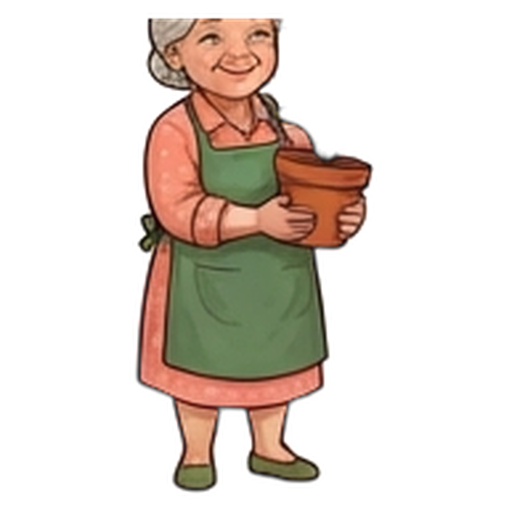
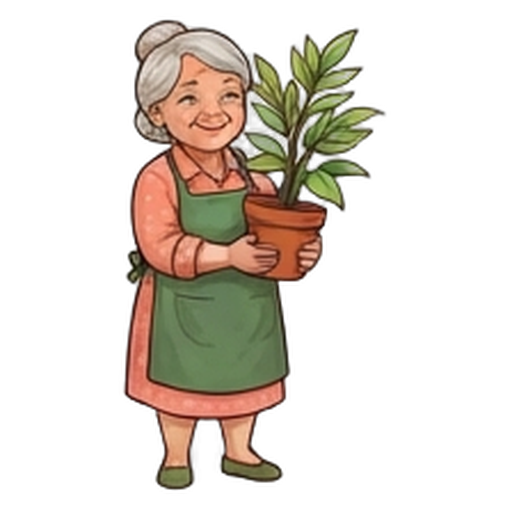
Personagens recortados pela silhueta, sem cortar cabeças e chapéus
As figuras da grade passavam do limite das células, e vários personagens
saíam com o topo cortado (Gaudêncio, Geralda, Zulma, Rosinha, Jacinto).
fatiar_por_silhueta.py tira o fundo da grade inteira e entrega a cada
personagem a figura completa, inclusive o carrinho do Cícero, a canoa do
Chico e a fumaça da tigela da Keiko.

Claude-Session: https://claude.ai/code/session_016wJzKn9f3nBJFY6j7rFUfs

Changed region(s): [[0.2188, 0.0312, 0.75, 0.9688]]

diff --git a/docs/arte/itens/fatiar_por_silhueta.py b/docs/arte/itens/fatiar_por_silhueta.py
@@ -1,0 +1,37 @@
+"""Recorta figuras de uma grade em que elas passam do limite das células (ex.: personagens com chapéu).
+
+Em vez de cortar a grade em células fixas, tira o fundo da imagem inteira, separa as figuras pela silhueta e
+entrega a cada código todas as partes cujo centro cai na célula dele (um vendedor e o carrinho, a fumaça da panela…).
+
+Uso:  python fatiar_por_silhueta.py GRADE.png COLUNAS LINHAS LOTE      (LOTE: chave de grades.json; "" = célula ignorada)
+Grava docs/arte/<pasta>/<nome>.png (512 px, fundo transparente).
+"""
+import json, os, sys
+import numpy as np
+from PIL import Image
+from scipy import ndimage
+AQUI = os.path.dirname(os.path.abspath(__file__)); sys.path.insert(0, AQUI)
+import recortar_itens as R
+
+grade, cols, rows, lote = sys.argv[1], int(sys.argv[2]), int(sys.argv[3]), sys.argv[4]
+codigos = json.load(open(os.path.join(AQUI, 'grades.json')))[lote]
+img = Image.open(grade).convert('RGB'); W, H = img.size; cw, ch = W / cols, H / rows
+a = R.mascara(img)
+lab, n = ndimage.label(ndimage.binary_closing(a > 0.5, iterations=2))
+centros = ndimage.center_of_mass(np.ones_like(lab), lab, range(1, n + 1))
+areas = ndimage.sum(np.ones_like(lab), lab, range(1, n + 1))
+dono = {}
+for i, ((cy, cx), ar) in enumerate(zip(centros, areas), 1):
+    if ar < W * H * 0.0004: continue                      # poeira
+    k = int(cy // ch) * cols + int(cx // cw)
+    dono.setdefault(k, []).append(i)
+for k, cod in enumerate(codigos):
+    if not cod or k not in dono: continue
+    m = np.isin(lab, dono[k])
+    alfa = np.where(ndimage.binary_dilation(m, iterations=3), a, 0)
+    out = Image.fromarray(np.dstack([np.asarray(img), (alfa * 255).astype(np.uint8)]), 'RGBA')
+    out = out.crop(out.getchannel('A').point(lambda v: 255 if v > 10 else 0).getbbox())
+    s = round(max(out.size) * 1.08); q = Image.new('RGBA', (s, s), (0, 0, 0, 0)); q.paste(out, ((s - out.width) // 2, (s - out.height) // 2), out)
+    pasta, nome = cod.split('/'); d = os.path.join(AQUI, '..', pasta); os.makedirs(d, exist_ok=True)
+    q.resize((512, 512), Image.LANCZOS).save(os.path.join(d, nome + '.png'), optimize=True)
+    print(cod, len(dono[k]), 'partes')

diff --git a/docs/arte/prompt-nano-banana-2.md b/docs/arte/prompt-nano-banana-2.md
@@ -186,4 +186,4 @@ Style for every character: friendly cartoon illustration for a cozy mobile game,
 
 ## Depois de gerar
 
-Mande os arquivos. Eu fatio as grades (`docs/arte/itens/fatiar_grade.py GRADE.png 5 4 extra` e `... 6 5 personagens`), tiro o fundo, troco as imagens no jogo e atualizo a lista de arte.
+Mande os arquivos. Personagens são recortados pela silhueta (`docs/arte/itens/fatiar_por_silhueta.py GRADE.png 3 2 personagens-2`), porque chapéus e cabeças costumam passar do limite da célula. Eu fatio as grades (`docs/arte/itens/fatiar_grade.py GRADE.png 5 4 extra` e `... 6 5 personagens`), tiro o fundo, troco as imagens no jogo e atualizo a lista de arte.
